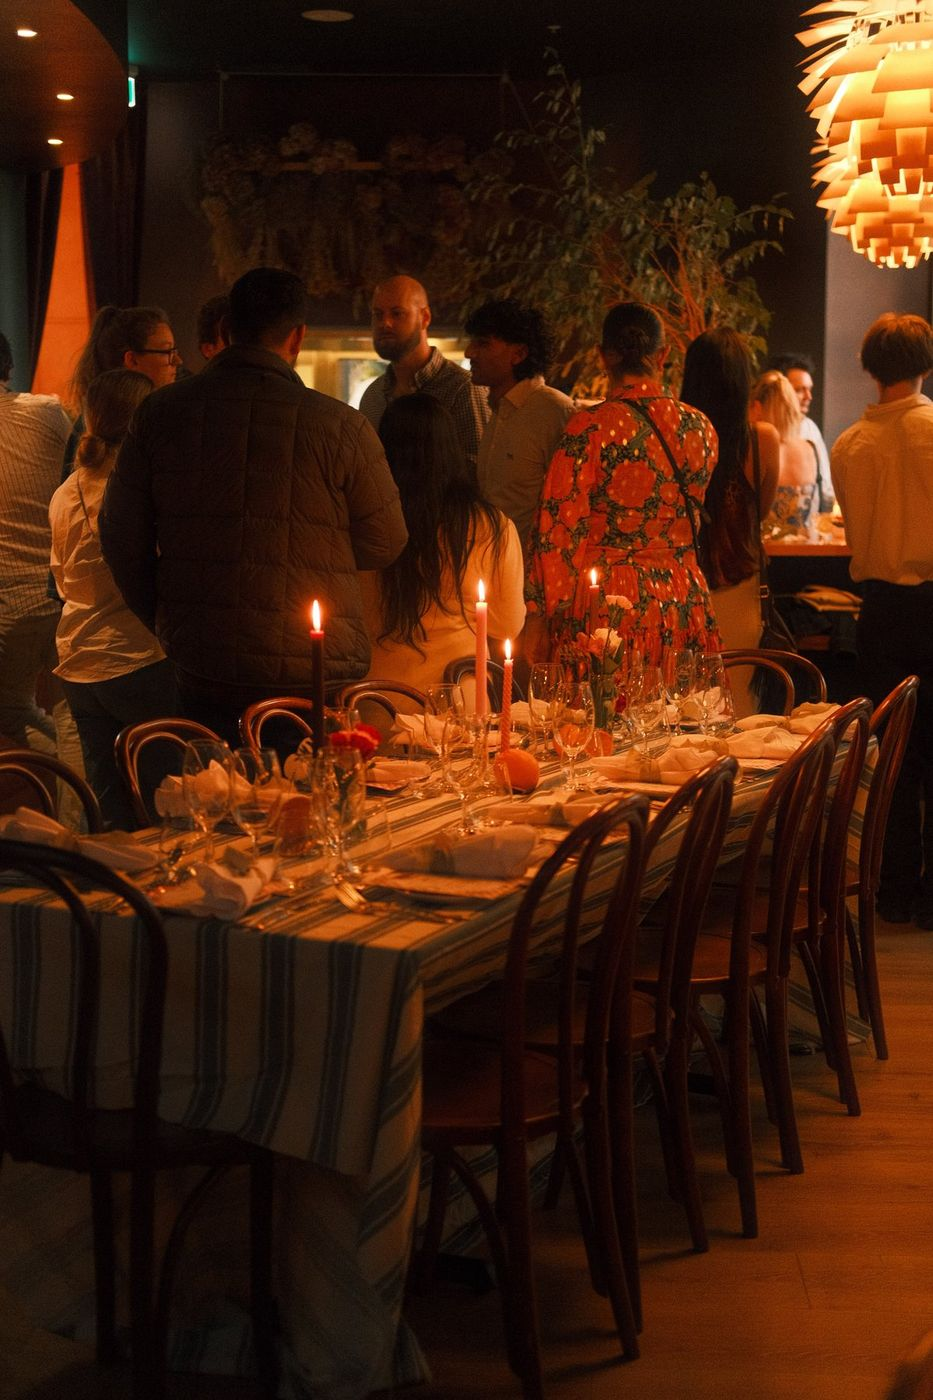
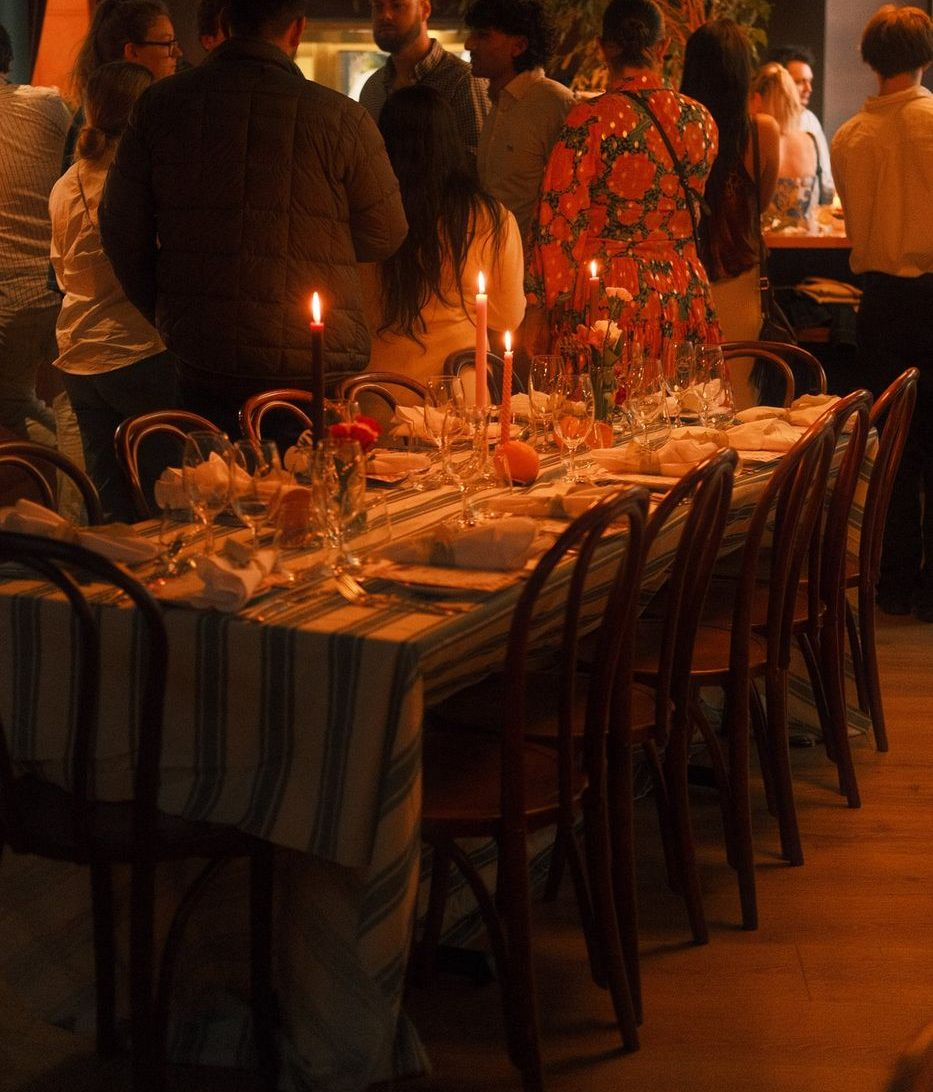
Functions and Christmas: the candlelit table without the old artichoke lamp
The photo's top-right corner showed a banned artichoke pendant; it is cropped
out of the file. Christmas's band goes back to this photo instead of the pasta
shot, which is the same picture as Home's phone hero.

Claude-Session: https://claude.ai/code/session_018VBvCNF4PYPLBBSmT3Mput

diff --git a/christmas-functions/index.html b/christmas-functions/index.html
@@ -64,7 +64,7 @@
 </section>
 <!-- December availability. EDIT EACH WEEK: list the Fridays still open inside the <b>, e.g. "Fri 11 &amp; Fri 18". Past Fridays drop off by themselves; when none are left the line says fully booked. -->
 <p class="sd-avail" id="sdAvail">December Fridays: <b id="sdAvailD" data-year="2026">Fri 11 &amp; Fri 18</b> left in the Restaurant · Midweek &amp; lunch dates open.</p>
-<section class="pair sd-band2" aria-label="Photographs"><figure data-tone="dark" class="ph rv"><img src="/images/christmas/web/dining-pasta.jpg" alt="A guest with a glass of red and a plate of pasta at a marble table" width="667" height="1000" loading="lazy" decoding="async"></figure><figure data-tone="dark" class="ph rv"><img src="/images/cocktail-tray-branded.jpg" alt="A tray of spritzes and Negronis ready for the guests" width="934" height="1400" loading="lazy" decoding="async"></figure></section>
+<section class="pair sd-band2" aria-label="Photographs"><figure data-tone="dark" class="ph rv"><img src="/images/event-candlelit-guests.jpg" alt="Guests at a candlelit table at an end-of-year party" width="933" height="1092" loading="lazy" decoding="async"></figure><figure data-tone="dark" class="ph rv"><img src="/images/cocktail-tray-branded.jpg" alt="A tray of spritzes and Negronis ready for the guests" width="934" height="1400" loading="lazy" decoding="async"></figure></section>
 <nav class="sec sd-idx" id="sdIdx" aria-label="On this page"><div class="wrap">
 <p class="sd-idx-k"><span>Index</span><span>Hover a chapter to open it</span></p>
 <div class="sd-ix" data-k="menu"><a class="sd-ix-h" href="#menu" aria-expanded="false"><em>01</em><span class="t">Menu &amp; prices</span><i aria-hidden="true"></i><span class="h">Grazing from&nbsp;$40pp&nbsp;· Shared menus from&nbsp;$80pp</span><span class="ar" aria-hidden="true">→</span></a><div class="sd-ix-p"><div class="sd-ix-in"><figure class="ph" data-tone="dark"><img src="/images/pack-2026/grazing-table-flowers.jpg" alt="A grazing table of cured meats, cheeses, fruit and flowers" width="933" height="1400" loading="lazy" decoding="async"></figure><div><p class="sd-ix-l">Christmas, set the Italian way.</p><ul class="info"><li><span>Canapés <em>– passed on trays</em></span><i></i><em>from $9pp</em></li><li><span>Shared Franco <em>– three courses</em></span><i></i><em>$80pp</em></li><li><span>Tutto Franco <em>– canapés, then the feast</em></span><i></i><em>$110pp</em></li><li><span>Grazing table</span><i></i><em>$40pp</em></li></ul><p class="meta">Drinks on consumption: spritzes, Negronis, wine.</p><a class="sd-ix-go" href="#menu">See the menus →</a></div></div></div></div>

diff --git a/functions/index.html b/functions/index.html
@@ -65,7 +65,7 @@
 <p class="sd-lede">Lunch or dinner: house-made pasta, Negronis and a team that runs the night so you don’t have to, upstairs in the heart of The Crossing.</p>
 </div>
 </section>
-<section class="pair sd-band2" aria-label="Photographs"><figure data-tone="dark" class="ph rv"><img src="/images/event-clearing.jpg" alt="A waiter clearing plates at a busy private dinner" width="1000" height="1500" loading="lazy" decoding="async"></figure><figure data-tone="dark" class="ph rv"><img src="/images/event-candlelit-guests.jpg" alt="Guests gathered round a long candlelit table laid with flowers for a private dinner" width="933" height="1400" loading="lazy" decoding="async"></figure></section>
+<section class="pair sd-band2" aria-label="Photographs"><figure data-tone="dark" class="ph rv"><img src="/images/event-clearing.jpg" alt="A waiter clearing plates at a busy private dinner" width="1000" height="1500" loading="lazy" decoding="async"></figure><figure data-tone="dark" class="ph rv"><img src="/images/event-candlelit-guests.jpg" alt="Guests gathered round a long candlelit table laid with flowers for a private dinner" width="933" height="1092" loading="lazy" decoding="async"></figure></section>
 <nav class="sec sd-idx" id="sdIdx" aria-label="On this page"><div class="wrap">
 <p class="sd-idx-k"><span>Index</span><span>Hover a chapter to open it</span></p>
 <div class="sd-ix" data-k="night"><a class="sd-ix-h" href="#night" aria-expanded="false"><em>01</em><span class="t">The night</span><i aria-hidden="true"></i><span class="h">how it runs</span><span class="ar" aria-hidden="true">→</span></a><div class="sd-ix-p"><div class="sd-ix-in"><figure class="ph" data-tone="dark"><img src="/images/level1-aperitivo.jpg" alt="Spritzes on the bar on level 1" width="933" height="1400" loading="lazy" decoding="async"></figure><div><p class="sd-ix-l">We host. You stay.</p><ul class="info"><li><span>Level 1 <em>– arrival spritzes</em></span><i></i><em>01</em></li><li><span>Level 2 <em>– dinner by the open kitchen</em></span><i></i><em>02</em></li><li><span>Back down <em>– dessert, drinks &amp; dancing</em></span><i></i><em>03</em></li></ul><a class="sd-ix-go" href="#night">Read the night →</a></div></div></div></div>
